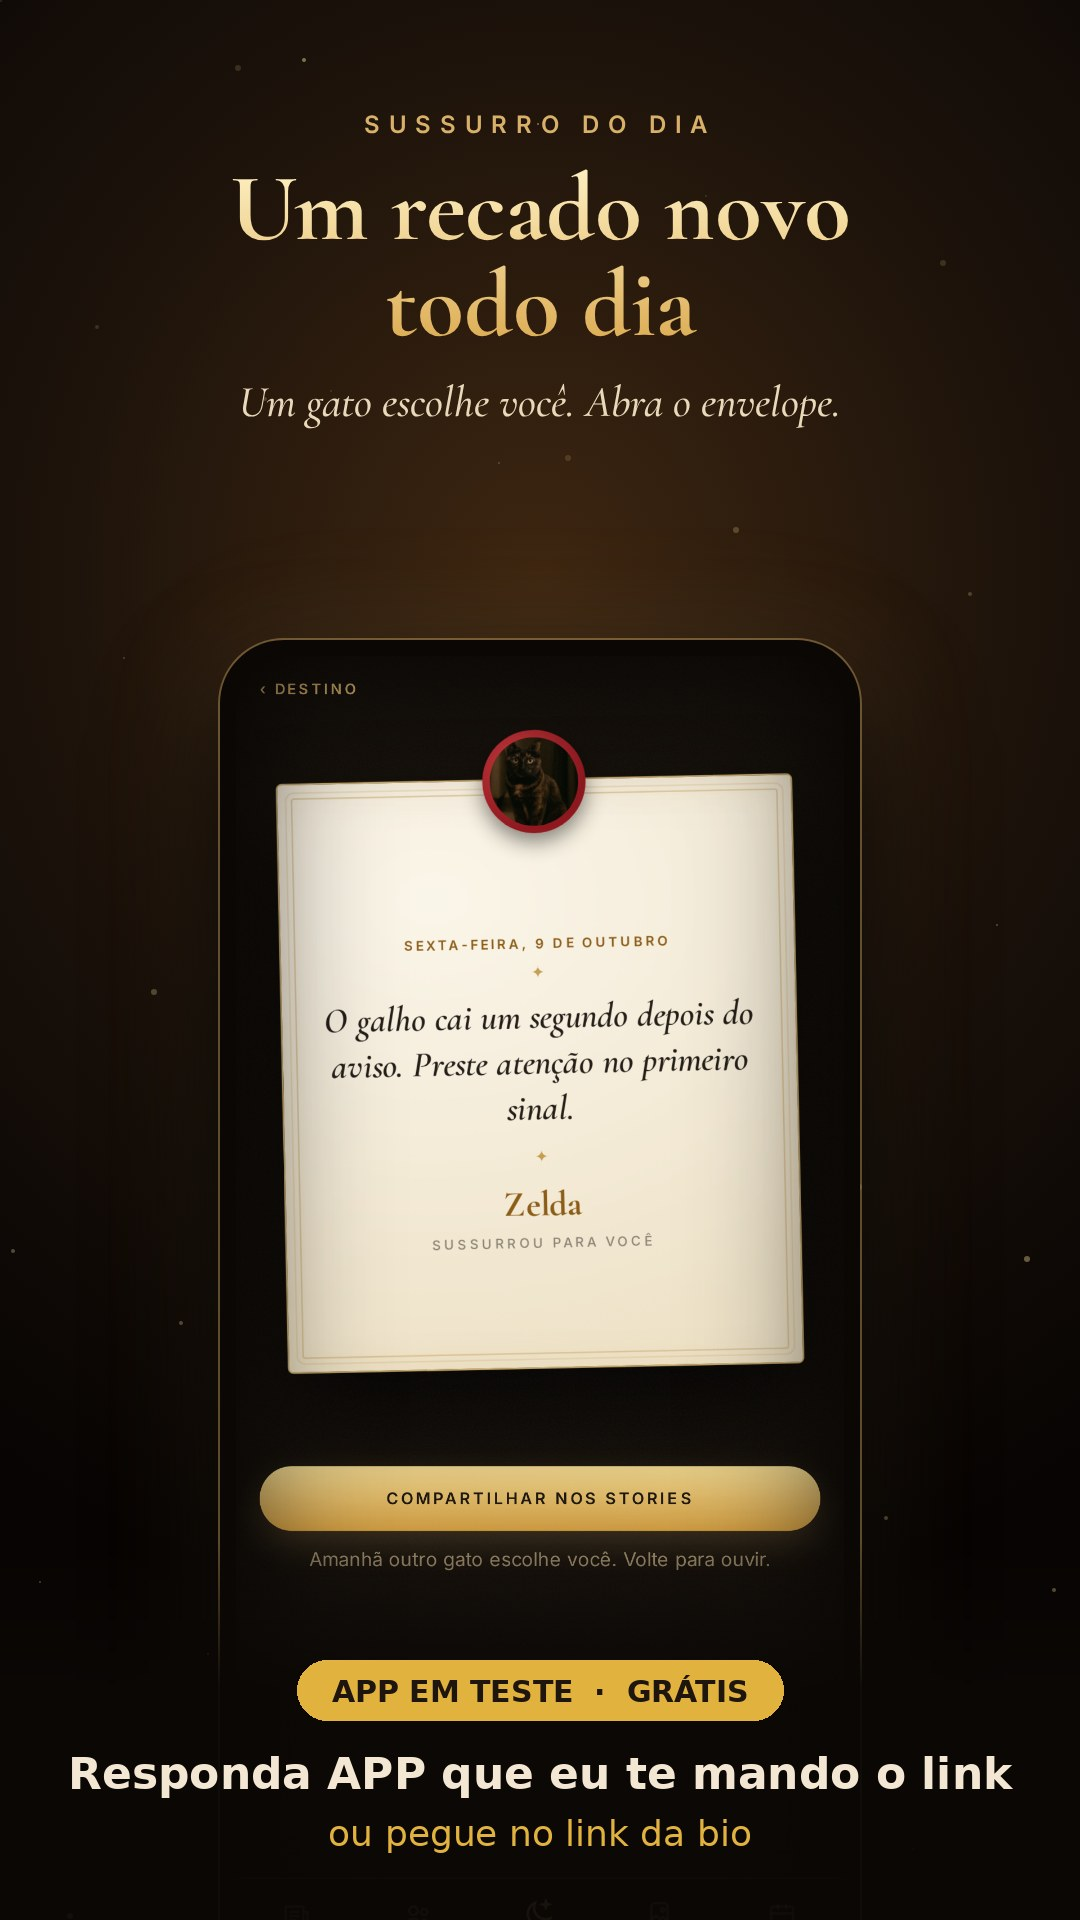
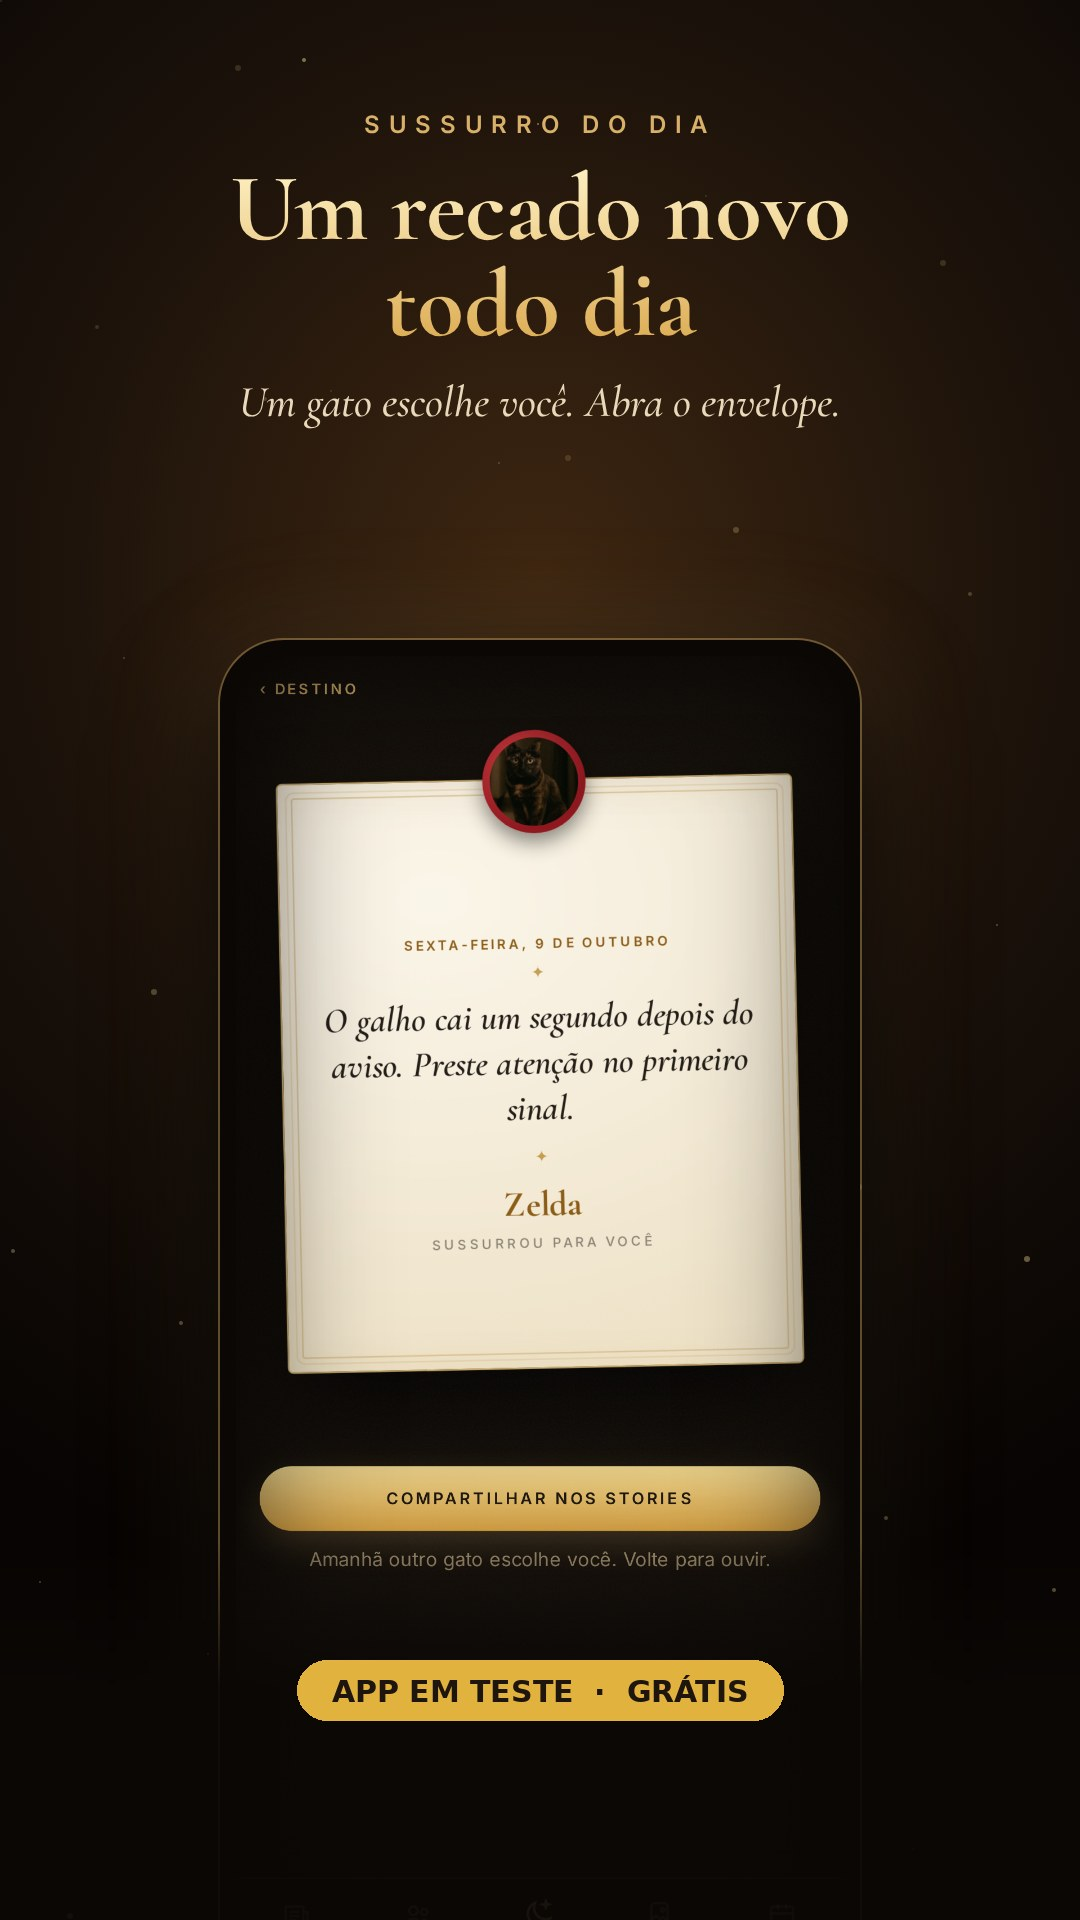
Story do teste do app: frase varia por dia (7 chamadas x 8 telas)

Changed region(s): [[0.0611, 0.9062, 0.9472, 0.9688]]

diff --git a/api/teste-app.js b/api/teste-app.js
@@ -3,26 +3,50 @@
 // GET  /api/teste-app             -> agendado (Vercel Cron); uma vez por dia; desliga com recursos.postTesteApp = false
 // POST /api/teste-app { acao: 'agora' } -> equipe (menu Publicar): publica o de hoje fora do horário
 const { auth, dbGet, dbSet } = require('../lib/db');
+const path = require('path');
+process.env.FONTCONFIG_PATH = process.env.FONTCONFIG_PATH || path.join(__dirname, '..', 'fonts');  // fontes do texto (a Vercel não tem)
+const sharp = require('sharp');
+const { put, del } = require('@vercel/blob');
+const { cred } = require('../lib/blob');
 const { publicarIG } = require('../lib/ig-post');
 
-const SITE = () => process.env.SITE_URL || 'https://' + (process.env.VERCEL_PROJECT_PRODUCTION_URL || 'miadosdodestinocentral.vercel.app');
 // telas, na ordem do rodízio (para os avisos e o registro)
 const POSTS = ['Destino', 'Chuva de notas', 'Sussurro do dia', 'Quiz', 'Papéis de parede', 'Enigma', 'Gazeta do Destino', 'Elenco'];
+// chamada escrita por cima da tela; 7 frases x 8 telas: a mesma combinação só volta depois de 56 dias
+const CHAMADAS = [
+  'Responda APP que eu te mando o link',
+  'Quer testar antes de todo mundo? Responda APP',
+  'É grátis: responda APP e receba o convite',
+  'Responda APP e entre no teste em 2 minutinhos',
+  'Os gatos te esperam no app. Responda APP',
+  'Ajude a lançar o app: responda APP',
+  'Responda APP e ganhe acesso ao teste'
+];
+const esc = t => String(t).replace(/[&<>]/g, c => ({ '&': '&amp;', '<': '&lt;', '>': '&gt;' })[c]);
+async function arte(i, frase) {
+  const svg = `<svg xmlns="http://www.w3.org/2000/svg" width="1080" height="1920">
+    <text x="540" y="1792" text-anchor="middle" font-family="DejaVu Sans" font-weight="bold" font-size="42" fill="#f3e7d3">${esc(frase)}</text>
+    <text x="540" y="1852" text-anchor="middle" font-family="DejaVu Sans" font-size="36" fill="#e2b23e">ou pegue no link da bio</text></svg>`;
+  return sharp(path.join(__dirname, '..', 'teste-app', `story_${String(i + 1).padStart(2, '0')}.jpg`))
+    .composite([{ input: Buffer.from(svg), top: 0, left: 0 }]).jpeg({ quality: 88 }).toBuffer();
+}
 const hojeBR = () => new Date(Date.now() - 3 * 3600e3).toISOString().slice(0, 10);
 const doDia = data => Math.floor(new Date(data + 'T12:00:00Z').getTime() / 864e5) % POSTS.length;
 
-async function postar(por) {
+async function postar(por, req) {
   const data = hojeBR(), ult = await dbGet('teste_app_post').catch(() => null);
   if (ult && ult.data === data) return { ...ult, repetido: true };
   const c = await dbGet('app_conteudo') || {};
   if (c.recursos && c.recursos.postTesteApp === false) return { desligado: true };
-  const i = doDia(data), arte = 'story_' + String(i + 1).padStart(2, '0');
+  const n = Math.floor(new Date(data + 'T12:00:00Z').getTime() / 864e5), i = doDia(data), frase = CHAMADAS[n % CHAMADAS.length];
   const av = require('../lib/avisos');
   let r;
-  try { r = await publicarIG({ media_type: 'STORIES', image_url: `${SITE()}/teste-app/${arte}.jpg` }); }
-  catch (e) { await av.falhou('Story do teste do app', e).catch(() => {}); throw e; }
+  try {
+    const blob = await put(`publicar/teste-app-${data}.jpg`, await arte(i, frase), { access: 'public', contentType: 'image/jpeg', addRandomSuffix: true, ...cred(req) });
+    try { r = await publicarIG({ media_type: 'STORIES', image_url: blob.url }); } finally { await del(blob.url, cred(req)).catch(() => {}); }
+  } catch (e) { await av.falhou('Story do teste do app', e).catch(() => {}); throw e; }
   await av.publicado(`Story do teste do app (${POSTS[i]})`, r).catch(() => {});
-  const reg = { data, arte, ...r, por, quando: new Date().toISOString() };
+  const reg = { data, tela: POSTS[i], frase, ...r, por, quando: new Date().toISOString() };
   await dbSet('teste_app_post', reg);
   return reg;
 }
@@ -32,13 +56,13 @@ module.exports = async (req, res) => {
     if (req.method === 'GET') {
       const seg = process.env.CRON_SECRET;
       if (seg && req.headers.authorization !== 'Bearer ' + seg) return res.status(401).json({ erro: 'Não autorizado' });
-      return res.json(await postar('Agendamento'));
+      return res.json(await postar('Agendamento', req));
     }
     const a = await auth(req);
     if (!a) return res.status(401).json({ erro: 'Faça login' });
     if (!a.menus.includes('publicar')) return res.status(403).json({ erro: 'Sem permissão para publicar' });
-    if ((req.body || {}).acao === 'agora') return res.json(await postar(a.u.nome));
+    if ((req.body || {}).acao === 'agora') return res.json(await postar(a.u.nome, req));
     res.status(400).json({ erro: 'Ação inválida' });
   } catch (e) { res.status(500).json({ erro: e.message }); }
 };
-module.exports.interno = { POSTS, doDia };
+module.exports.interno = { POSTS, CHAMADAS, doDia, arte };

diff --git a/test/teste-app.test.js b/test/teste-app.test.js
@@ -2,7 +2,8 @@
 const test = require('node:test');
 const assert = require('node:assert/strict');
 const fs = require('fs');
-const { interno: { POSTS, doDia } } = require('../api/teste-app');
+const { interno: { POSTS, CHAMADAS, doDia, arte } } = require('../api/teste-app');
+const sharp = require('sharp');
 test('8 telas de story no repositório', () => {
   assert.equal(POSTS.length, 8);
   POSTS.forEach((_, i) => assert.ok(fs.existsSync(`teste-app/story_${String(i + 1).padStart(2, '0')}.jpg`)));
@@ -10,4 +11,13 @@ test('8 telas de story no repositório', () => {
 test('rodízio: 8 dias seguidos usam as 8 artes, sem repetir', () => {
   const dias = Array.from({ length: 8 }, (_, k) => doDia(new Date(Date.UTC(2026, 9, 17 + k)).toISOString().slice(0, 10)));
   assert.equal(new Set(dias).size, 8);
+});
+test('56 dias seguidos sem repetir a combinação tela + frase', () => {
+  const vistos = new Set();
+  for (let k = 0; k < 56; k++) { const n = 20000 + k; vistos.add(n % POSTS.length + '|' + n % CHAMADAS.length); }
+  assert.equal(vistos.size, 56);
+});
+test('arte do story sai em 1080x1920', async () => {
+  const m = await sharp(await arte(0, CHAMADAS[0])).metadata();
+  assert.deepEqual([m.width, m.height, m.format], [1080, 1920, 'jpeg']);
 });
